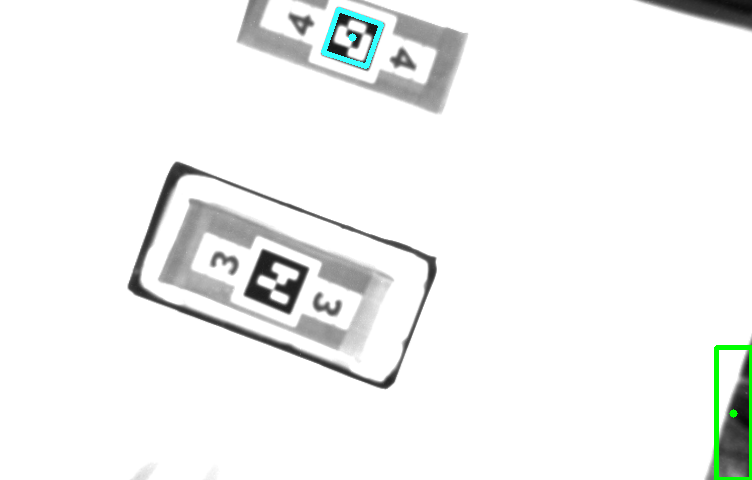
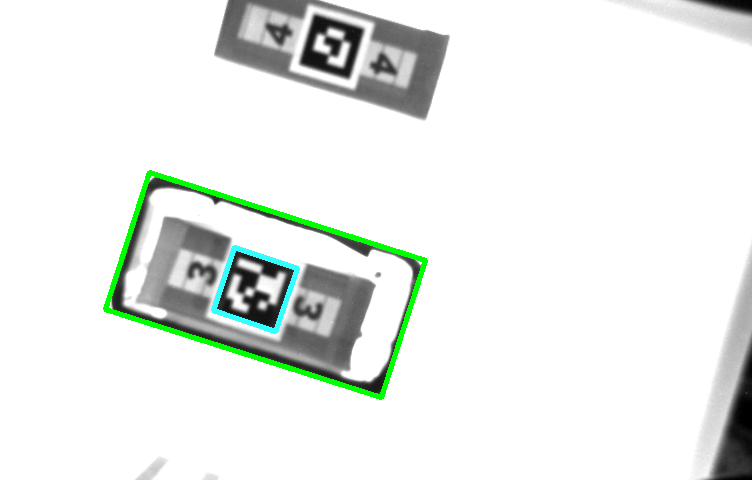
Apriltag detection is now working

diff --git a/browser/public/js/Module.js b/browser/public/js/Module.js
@@ -860,24 +860,21 @@ Module.prototype.start = async function(instructionAddr=['intro',0]) {
 				break;
 
 			case 'camerabw_graphic':
-				var cv_image = new Image();
-				cv_image.onload = function() {
-		            self.ctx.drawImage(cv_image, 0, 0)
 
-		            self.start(self.getNextAddress(instructionAddr));
-				};
-				cv_image.src = DIR + 'images/cv_1.png';
+				var cv_image_url = DIR + 'images/cv_1.png';
+
+                image.src = cv_image_url;
+				
+                this.start(this.getNextAddress(instructionAddr));
 
 				break;
 
 			case 'camera_color_graphic':
-				var cv_image = new Image();
-				cv_image.onload = function() {
-		            self.ctx.drawImage(cv_image, 0, 0)
+				var cv_image_url = DIR + 'images/cv_2.png';
 
-		            self.start(self.getNextAddress(instructionAddr));
-				};
-				cv_image.src = DIR + 'images/cv_2.png';
+                image.src = cv_image_url;
+				
+                this.start(this.getNextAddress(instructionAddr));
 
 				break;
 
@@ -913,8 +910,9 @@ Module.prototype.start = async function(instructionAddr=['intro',0]) {
 
 			case 'clearRect':
 				this.ctx.clearRect(0,0,100*m.cw,100*m.ch);
-
+				
 				this.start(this.getNextAddress(instructionAddr));
+
 				break;
 
 			case 'closeGripper':
@@ -991,22 +989,22 @@ Module.prototype.start = async function(instructionAddr=['intro',0]) {
 						// y = 77*this.ch;
 						// x = 77*this.cw;
 						// y = 73*this.ch;
-						x = 77*this.cw;
-						y = 90*this.ch;
+						x = 79*this.cw;
+						y = 88*this.ch;
 						this.ctx.strokeRect(x, y, boxW, boxH);
 						break;
 					case 2:
 						// x = 70*this.cw;
 						// y = 74*this.ch;
-						x = 62*this.cw;
-						y = 75*this.ch;
+						x = 65*this.cw;
+						y = 74*this.ch;
 						this.ctx.strokeRect(x, y, boxH, boxW);
 						break;
 					case 3:
 						// x = 47*this.cw;
 						// y = 82*this.ch;
-						x = 47*this.cw;
-						y = 75*this.ch;
+						x = 50*this.cw;
+						y = 74*this.ch;
 						this.ctx.strokeRect(x, y, boxH, boxW);
 						break;
 					case 4:
@@ -1015,7 +1013,7 @@ Module.prototype.start = async function(instructionAddr=['intro',0]) {
 						// x = 39*this.cw;
 						// y = 40*this.ch;
 						x = 62*this.cw;
-						y = 16*this.ch;
+						y = 14*this.ch;
 						this.ctx.strokeRect(x, y, boxW, boxH);
 						break;
 				}
@@ -1531,15 +1529,22 @@ Module.prototype.start = async function(instructionAddr=['intro',0]) {
 				break;
 
 			case 'show_camera':
+				// this.displayOff();
+				// var cv_image = new Image();
 
-				var cv_image = new Image();
-				cv_image.onload = function() {
-					console.log('Displaying camera')
-		            self.ctx.drawImage(cv_image, 20, 70)
+				// cv_image.onload = function() {
+				// 	console.log('Displaying camera')
+		  //           self.ctx.drawImage(cv_image, 20, 70)
 
-		            self.start(self.getNextAddress(instructionAddr));
-				};
-				cv_image.src = DIR + 'images/cv_image.png';
+		  //           self.start(self.getNextAddress(instructionAddr));
+				// };
+				// cv_image.src = DIR + 'images/cv_image.png';
+
+				var cv_image_url = DIR + 'images/cv_image.png';
+
+                image.src = cv_image_url;
+				
+                this.start(this.getNextAddress(instructionAddr));
 
 				break;
 

diff --git a/robot/src/sawyer/src/apriltag_detect.py b/robot/src/sawyer/src/apriltag_detect.py
@@ -6,6 +6,7 @@ import rospy, math
 import numpy as np
 import cv2
 from cv_bridge import CvBridge, CvBridgeError
+import apriltag
 
 # Intera
 import intera_interface
@@ -65,14 +66,24 @@ class Camera():
 		except CvBridgeError, err:
 			rospy.logerr(err)
 
+		img = cv2.cvtColor(cv_image, cv2.COLOR_BGR2GRAY)
+		detector = apriltag.Detector()
+		detections = detector.detect(img)
+		# rospy.loginfo(detections[0].corners)
+
+		cv2.line(cv_image, (int(detections[0].corners[0][0]),int(detections[0].corners[0][1])), (int(detections[0].corners[1][0]),int(detections[0].corners[1][1])), (255,255,51), 3)
+		cv2.line(cv_image, (int(detections[0].corners[1][0]),int(detections[0].corners[1][1])), (int(detections[0].corners[2][0]),int(detections[0].corners[2][1])), (255,255,51), 3)
+		cv2.line(cv_image, (int(detections[0].corners[3][0]),int(detections[0].corners[3][1])), (int(detections[0].corners[2][0]),int(detections[0].corners[2][1])), (255,255,51), 3)
+		cv2.line(cv_image, (int(detections[0].corners[3][0]),int(detections[0].corners[3][1])), (int(detections[0].corners[0][0]),int(detections[0].corners[0][1])), (255,255,51), 3)
+
 		gray = cv2.cvtColor(cv_image, cv2.COLOR_BGR2GRAY)
 		blurred = cv2.GaussianBlur(gray, (5,5), 0)
-		ret, thresh = cv2.threshold(blurred, 100, 255, cv2.THRESH_BINARY_INV)
+		ret, thresh = cv2.threshold(blurred, 180, 255, cv2.THRESH_BINARY_INV)
 
-		ret2, thresh2 = cv2.threshold(blurred, 40, 255, cv2.THRESH_BINARY_INV)
+		# ret2, thresh2 = cv2.threshold(blurred, 50, 255, cv2.THRESH_BINARY_INV)
 
 		im2, contours, hierarchy = cv2.findContours(thresh, cv2.RETR_TREE, cv2.CHAIN_APPROX_NONE)
-		im3, contours3, hierarchy3 = cv2.findContours(thresh2, cv2.RETR_TREE, cv2.CHAIN_APPROX_NONE)
+		# im3, contours3, hierarchy3 = cv2.findContours(thresh2, cv2.RETR_TREE, cv2.CHAIN_APPROX_NONE)
 
 		cnt = contours[0]
 		max_area = cv2.contourArea(cnt)
@@ -88,22 +99,22 @@ class Camera():
 
 		cv2.drawContours(cv_image, [box], -1, (0,255,0), 3)
 
-		cnt2 = contours3[0]
-		max_area2 = cv2.contourArea(cnt2)
+		# cnt2 = contours3[0]
+		# max_area2 = cv2.contourArea(cnt2)
 
-		for contour in contours3:
-			if cv2.contourArea(contour) > max_area2:
-				cnt2 = contour
-				max_area2 = cv2.contourArea(contour)
+		# for contour in contours3:
+		# 	if cv2.contourArea(contour) >= max_area2:
+		# 		cnt2 = contour
+		# 		max_area2 = cv2.contourArea(contour)
 
-		rect2 = cv2.minAreaRect(cnt2)
-		box2 = cv2.boxPoints(rect2)
-		box2 = np.int0(box2)
+		# rect2 = cv2.minAreaRect(cnt2)
+		# box2 = cv2.boxPoints(rect2)
+		# box2 = np.int0(box2)
 
-		cv2.drawContours(cv_image, [box2], -1, (255,255,51), 3)
+		# cv2.drawContours(cv_image, [box2], -1, (255,255,51), 3)
 
 		a = sum(map(lambda x: x[0], box))/4
-		b = sum(map(lambda x: x[1], box))/4
+		# b = sum(map(lambda x: x[1], box))/4
 
 		# cv2.circle(cv_image, (a,b), 8, (255,0,0), -1)
 

diff --git a/robot/src/sawyer/src/teachbot.py b/robot/src/sawyer/src/teachbot.py
@@ -7,7 +7,7 @@ from pygame import mixer
 from playsound import playsound
 import pyttsx3
 import cv2
-
+import apriltag
 # Intera
 import intera_interface
 from std_msgs.msg import (
@@ -372,14 +372,22 @@ class Module():
 		except CvBridgeError, err:
 			rospy.logerr(err)
 
+		img = cv2.cvtColor(cv_image, cv2.COLOR_BGR2GRAY)
+		detector = apriltag.Detector()
+		detections = detector.detect(img)
+		# rospy.loginfo(detections[0].corners)
+
+		cv2.line(cv_image, (int(detections[0].corners[0][0]),int(detections[0].corners[0][1])), (int(detections[0].corners[1][0]),int(detections[0].corners[1][1])), (255,255,51), 3)
+		cv2.line(cv_image, (int(detections[0].corners[1][0]),int(detections[0].corners[1][1])), (int(detections[0].corners[2][0]),int(detections[0].corners[2][1])), (255,255,51), 3)
+		cv2.line(cv_image, (int(detections[0].corners[3][0]),int(detections[0].corners[3][1])), (int(detections[0].corners[2][0]),int(detections[0].corners[2][1])), (255,255,51), 3)
+		cv2.line(cv_image, (int(detections[0].corners[3][0]),int(detections[0].corners[3][1])), (int(detections[0].corners[0][0]),int(detections[0].corners[0][1])), (255,255,51), 3)
+
 		gray = cv2.cvtColor(cv_image, cv2.COLOR_BGR2GRAY)
 		blurred = cv2.GaussianBlur(gray, (5,5), 0)
-		ret, thresh = cv2.threshold(blurred, 100, 255, cv2.THRESH_BINARY_INV)
-		ret2, thresh2 = cv2.threshold(blurred, 40, 255, cv2.THRESH_BINARY_INV)
+		ret, thresh = cv2.threshold(blurred, 180, 255, cv2.THRESH_BINARY_INV)
 
 		im2, contours, hierarchy = cv2.findContours(thresh, cv2.RETR_TREE, cv2.CHAIN_APPROX_NONE)
-		im3, contours3, hierarchy3 = cv2.findContours(thresh2, cv2.RETR_TREE, cv2.CHAIN_APPROX_NONE)
-
+		
 		cnt = contours[0]
 		max_area = cv2.contourArea(cnt)
 
@@ -394,28 +402,8 @@ class Module():
 
 		cv2.drawContours(cv_image, [box], -1, (0,255,0), 3)
 
-		cnt2 = contours3[0]
-		max_area2 = cv2.contourArea(cnt2)
-
-		for contour in contours3:
-			if cv2.contourArea(contour) > max_area2:
-				cnt2 = contour
-				max_area2 = cv2.contourArea(contour)
-
-		rect2 = cv2.minAreaRect(cnt2)
-		box2 = cv2.boxPoints(rect2)
-		box2 = numpy.int0(box2)
-
-		cv2.drawContours(cv_image, [box2], -1, (255,255,51), 3)
-
-		a = sum(map(lambda x: x[0], box))/4
-		b = sum(map(lambda x: x[1], box))/4
-
-		c = sum(map(lambda x: x[0], box2))/4
-		d = sum(map(lambda x: x[1], box2))/4
-
-		cv2.circle(cv_image, (a,b), 4, (0,255,0), -1)
-		cv2.circle(cv_image, (c,d), 4, (255,255,51), -1)
+		# a = sum(map(lambda x: x[0], box))/4
+		# b = sum(map(lambda x: x[1], box))/4
 
 		#img = cv_image
 		# rospy.loginfo('Creating image')
